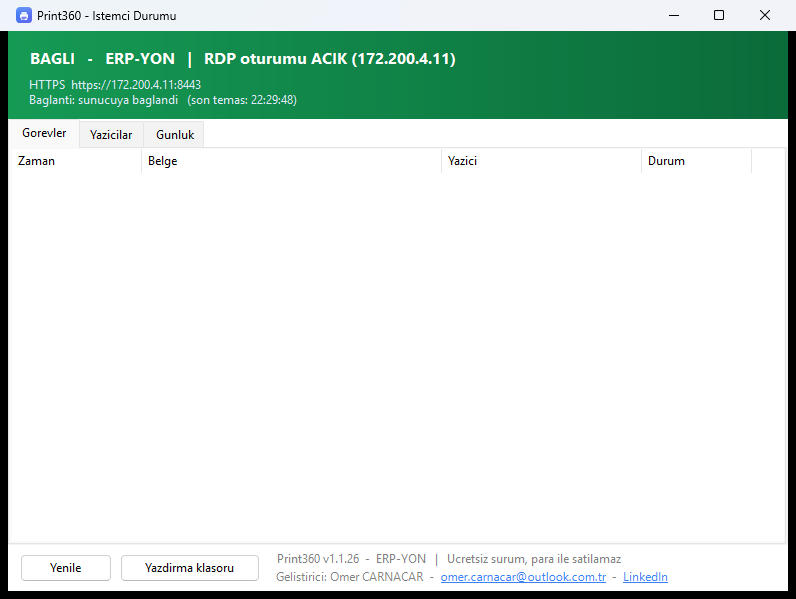
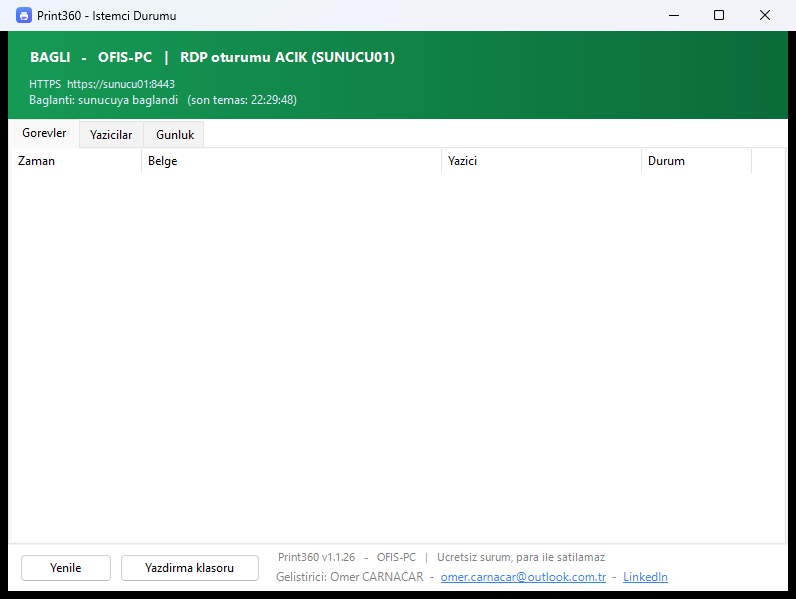
Ekran goruntulerinden ve koddan ozel ortam bilgileri temizlendi
- istemci-durum.png : makine adi (ERP-YON) ve sunucu IP'si (172.200.4.11)
  yerine OFIS-PC / SUNUCU01 ornek degerleri yazildi. Basliktaki HTTPS
  adresi de ornek sunucu adiyla degistirildi.
- istemci-yazicilar.png : makine adi ile agdaki gercek yazicinin ana
  bilgisayar adi (NPIE09ECC) ornek degerlerle degistirildi.
- ClientAgent yorumundaki ornek, gercek bir RDP sunucusunun IP'sini
  iceriyordu; jenerik SRV03 ile degistirildi.

Metinler ayni yazi tipi, boyut ve renkle yeniden cizildi; goruntuler
uzerinde baska bir degisiklik yok.

Changed region(s): [[0.0302, 0.0601, 0.5729, 0.1503], [0.4824, 0.9015, 0.7839, 0.9616], [0.3317, 0.9015, 0.4523, 0.9616]]

diff --git a/client/Print360.ClientAgent.cs b/client/Print360.ClientAgent.cs
@@ -876,7 +876,7 @@ static class ClientAgent
         };
 
         // Server= elle verilmisse: VIRGULLE birden fazla sunucu yazilabilir
-        //   ornek:  Server=SRV01,SRV02,10.2.0.45
+        //   ornek:  Server=SRV01,SRV02,SRV03
         if (server.Length > 0 && !server.Equals("auto", StringComparison.OrdinalIgnoreCase))
         {
             foreach (var s in server.Split(new[] { ',', ';' }, StringSplitOptions.RemoveEmptyEntries))
